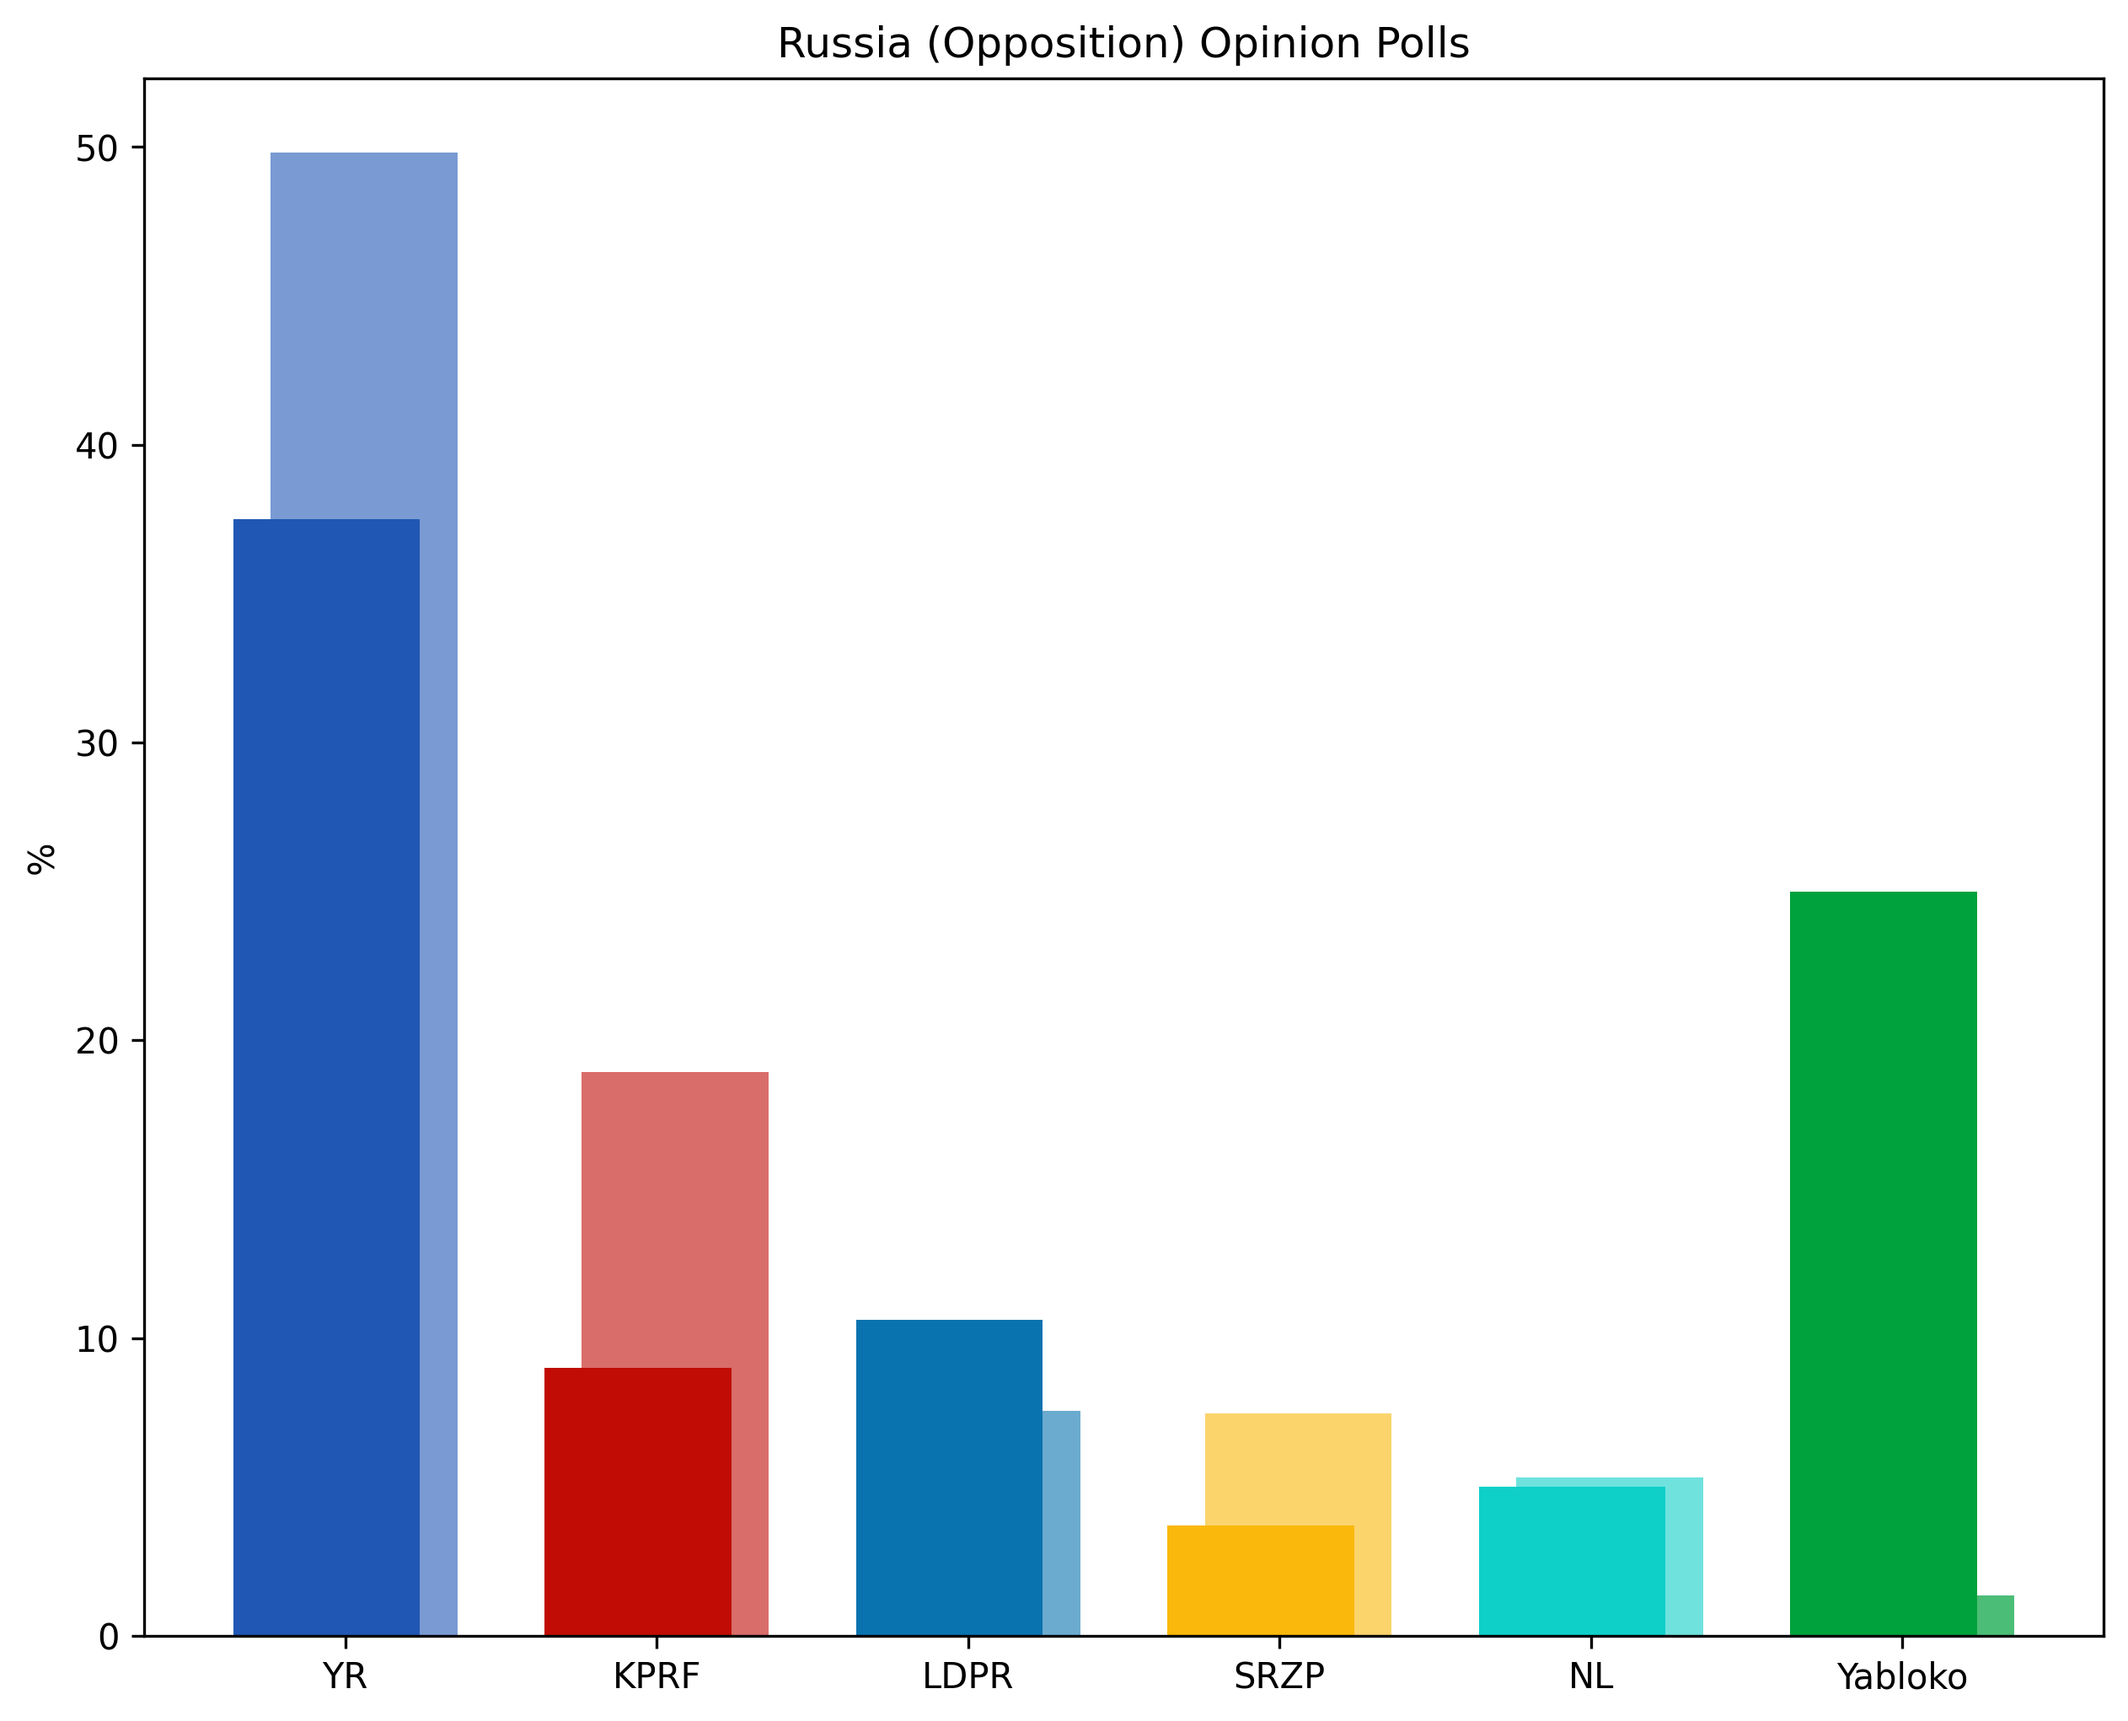
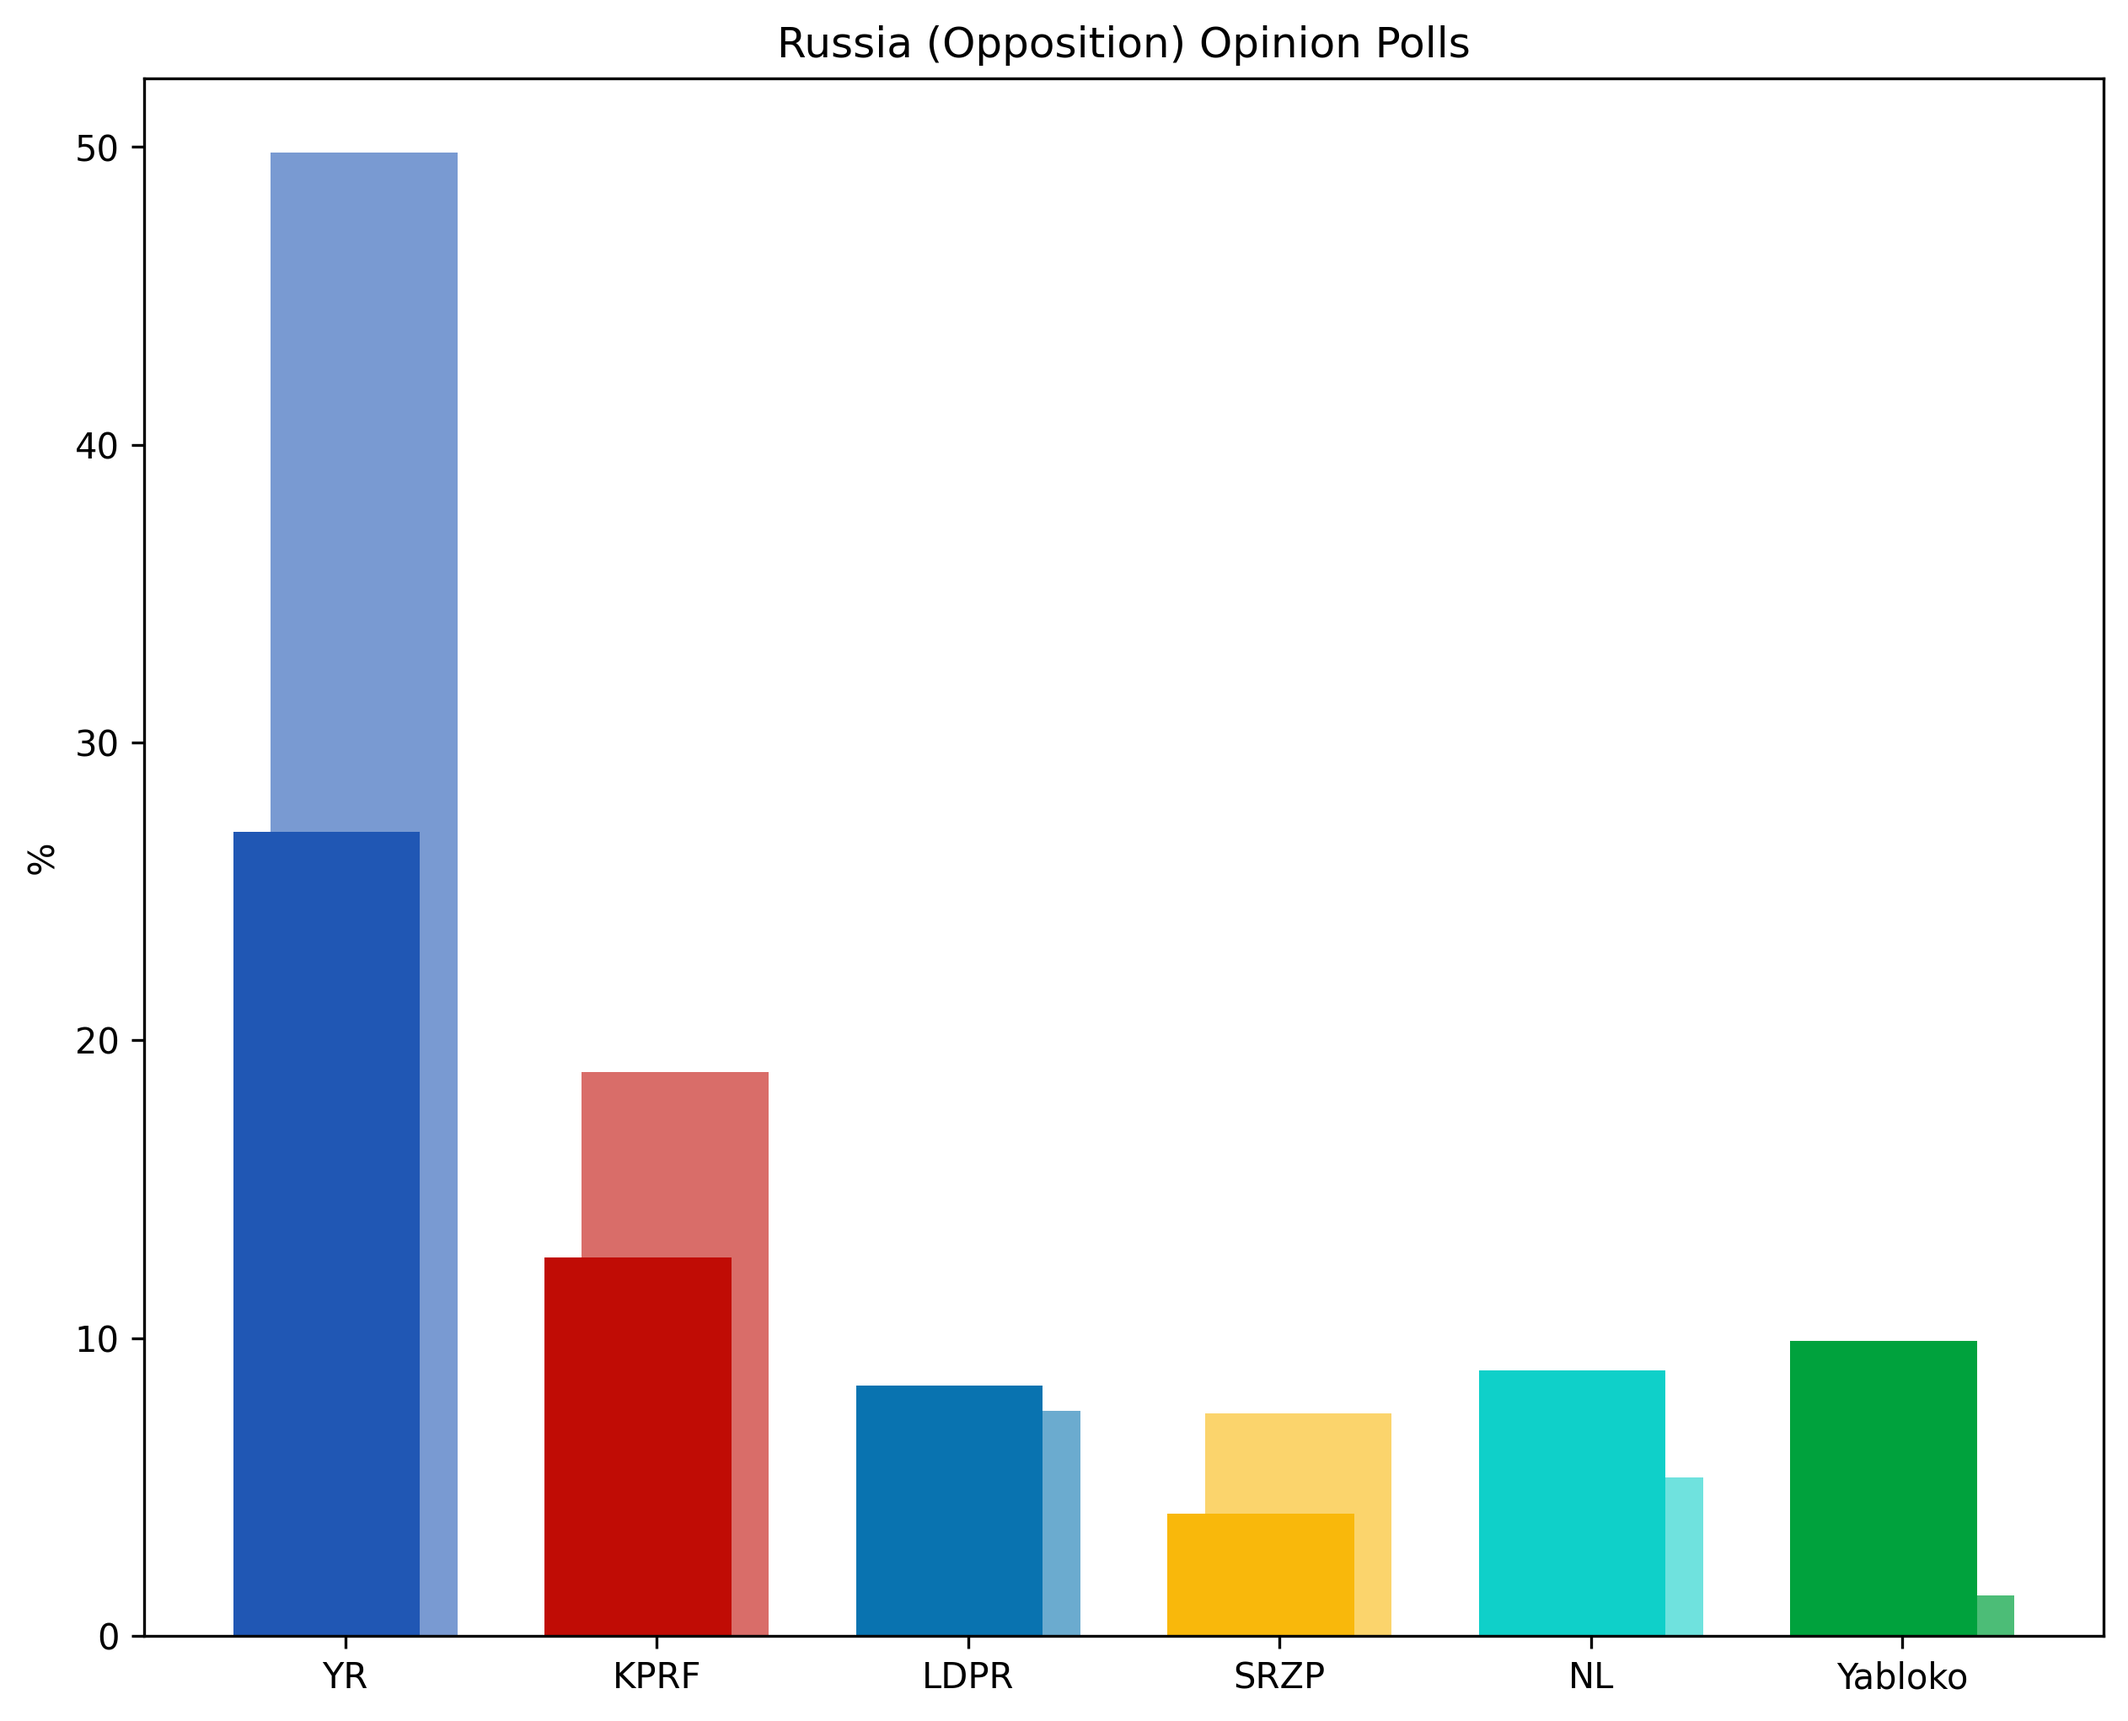
Updated Russia

diff --git a/Eurasia/EasternEurope/Russia.py b/Eurasia/EasternEurope/Russia.py
@@ -2,7 +2,7 @@ import matplotlib.pyplot as plt
 import numpy as np
 
 parties = ['YR', 'KPRF', 'LDPR', 'SRZP', 'NL']
-polling_2025 = [37.5, 9.0, 10.6, 3.7, 5.0]
+polling_2026 = [35.1, 9.7, 9.9, 4.3, 8.0]
 election_2021 = [49.82, 18.93, 7.55, 7.46, 5.32]
 
 poll_colors = ['#2057b4', '#c00c05', '#0973b0', '#f9b80b', '#0fd0c9']
@@ -13,12 +13,12 @@ width = 0.6
 
 fig, ax = plt.subplots(figsize=(10, 8))
 ax.bar(x + width/10, election_2021, width=width, color=election_colors, label='2021 Election')
-ax.bar(x - width/10, polling_2025, width=width, color=poll_colors, label='August 2025 Polling')
+ax.bar(x - width/10, polling_2026, width=width, color=poll_colors, label='September 2026 Polling')
 
 ax.set_ylabel('%')
 ax.set_xticks(x)
 ax.set_xticklabels(parties)
-ax.set_title('Russia Opinion Polls')
+ax.set_title('Russia (Government) Opinion Polls')
 
-plt.savefig('Eurasia/EasternEurope/Russia Opinion Polls.png', dpi=300, bbox_inches='tight')
+plt.savefig('Eurasia/EasternEurope/Russia (Government) Opinion Polls.png', dpi=300, bbox_inches='tight')
 plt.show()

diff --git a/Eurasia/EasternEurope/Russia2.py b/Eurasia/EasternEurope/Russia2.py
@@ -2,7 +2,7 @@ import matplotlib.pyplot as plt
 import numpy as np
 
 parties = ['YR', 'KPRF', 'LDPR', 'SRZP', 'NL', 'Yabloko']
-polling_2025 = [37.5, 9.0, 10.6, 3.7, 5.0, 25.0]
+polling_2025 = [27.0, 12.7, 8.4, 4.1, 8.9, 9.9]
 election_2021 = [49.82, 18.93, 7.55, 7.46, 5.32, 1.34]
 
 poll_colors = ['#2057b4', '#c00c05', '#0973b0', '#f9b80b', '#0fd0c9', '#00a23d']
